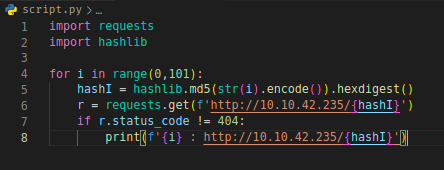
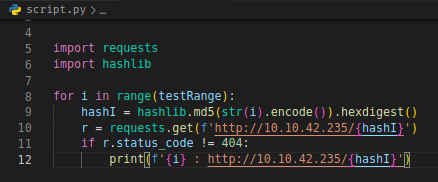
final

diff --git a/README.md b/README.md
@@ -16,9 +16,10 @@
             &emsp;the endpoints are MD5 hash values of numbers from 1 to 13.<br><br>
     </li>
     <li>
-        Getting the flag.<br><br>
+        Getting the flag.<br>
             &emsp;The room description suggests us to uncover website locations and also to look at the pattern for help so<br>
             &emsp;my next step is to write a python script that generates hash of numbers and test's weather they exist here.<br>
+            &emsp;<img src="./img/python-script.png" alt="script"><br>
     </li>
 </ol>
 
